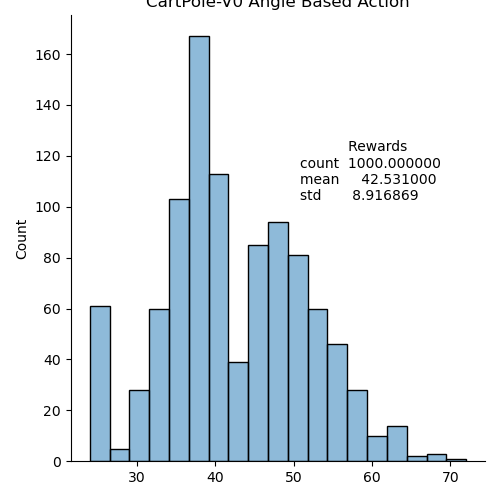
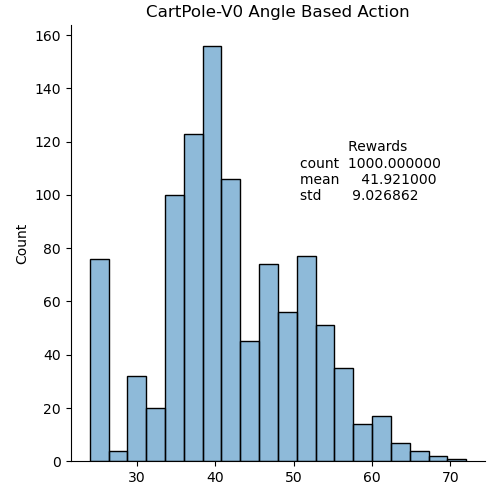
Fixed Seaborn plot title not showing

diff --git a/1-RandomAction.py b/1-RandomAction.py
@@ -42,5 +42,6 @@ print("Total number of steps = ",np.sum(history)+1)
 df = pd.DataFrame(history, columns=['Rewards'])
 sns.displot(data=df, legend=False)
 plt.title("CartPole-V0 Random Action")
+plt.subplots_adjust(top=0.95)
 plt.figtext(0.6, 0.6, df.describe().loc[['count','mean','std']].to_string())
 plt.show()

diff --git a/2-AngleBased.py b/2-AngleBased.py
@@ -42,5 +42,6 @@ print("Total reward = ",np.sum(history))
 df = pd.DataFrame(history, columns=['Rewards'])
 sns.displot(data=df, legend=False)
 plt.title("CartPole-V0 Angle Based Action")
+plt.subplots_adjust(top=0.95)
 plt.figtext(0.6, 0.6, df.describe().loc[['count','mean','std']].to_string())
 plt.show()

diff --git a/README.md b/README.md
@@ -12,4 +12,4 @@
 
 ### 1.1 Random action based control
 - Number of timesteps = the final reward per episode
-![Histogram of Random action based control]()
+![Histogram of Random action based control](gym-results/Histogram_Random_Action.png)
